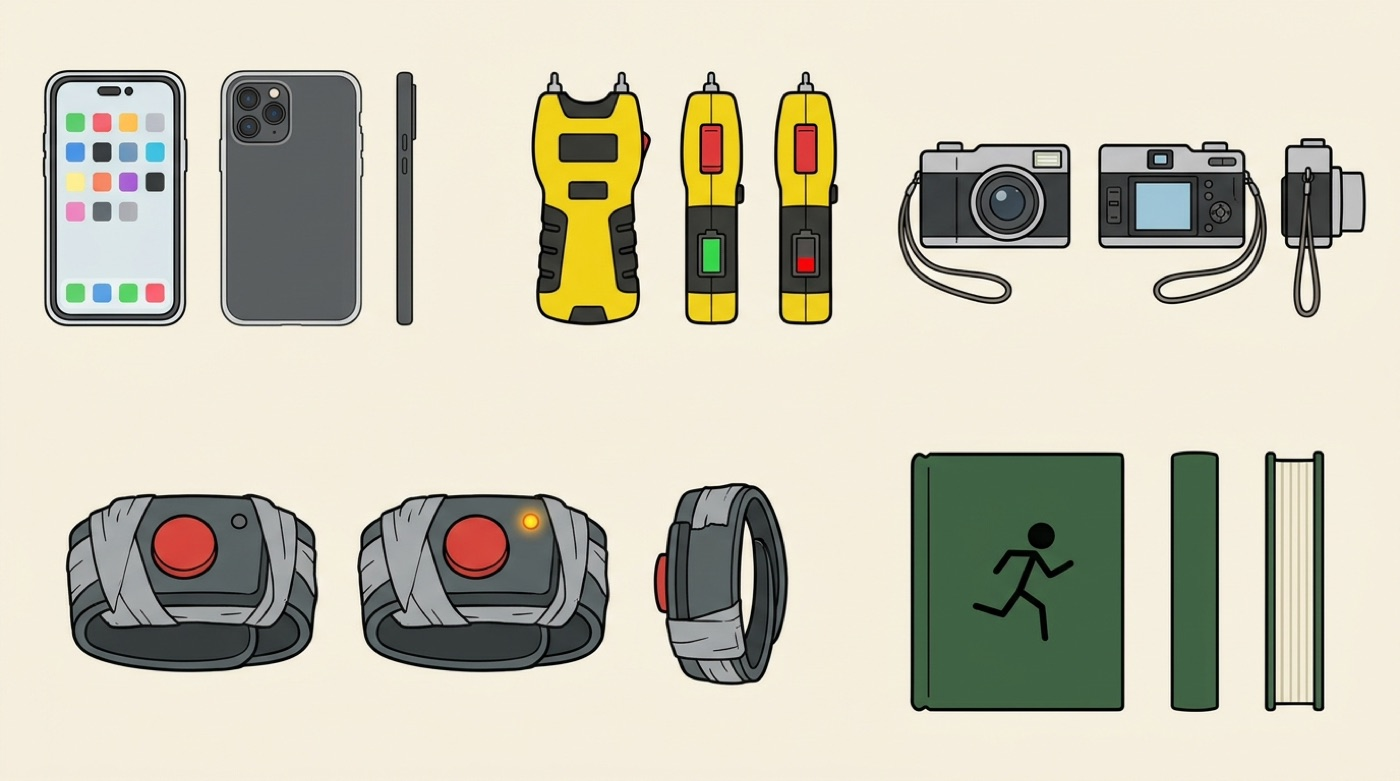
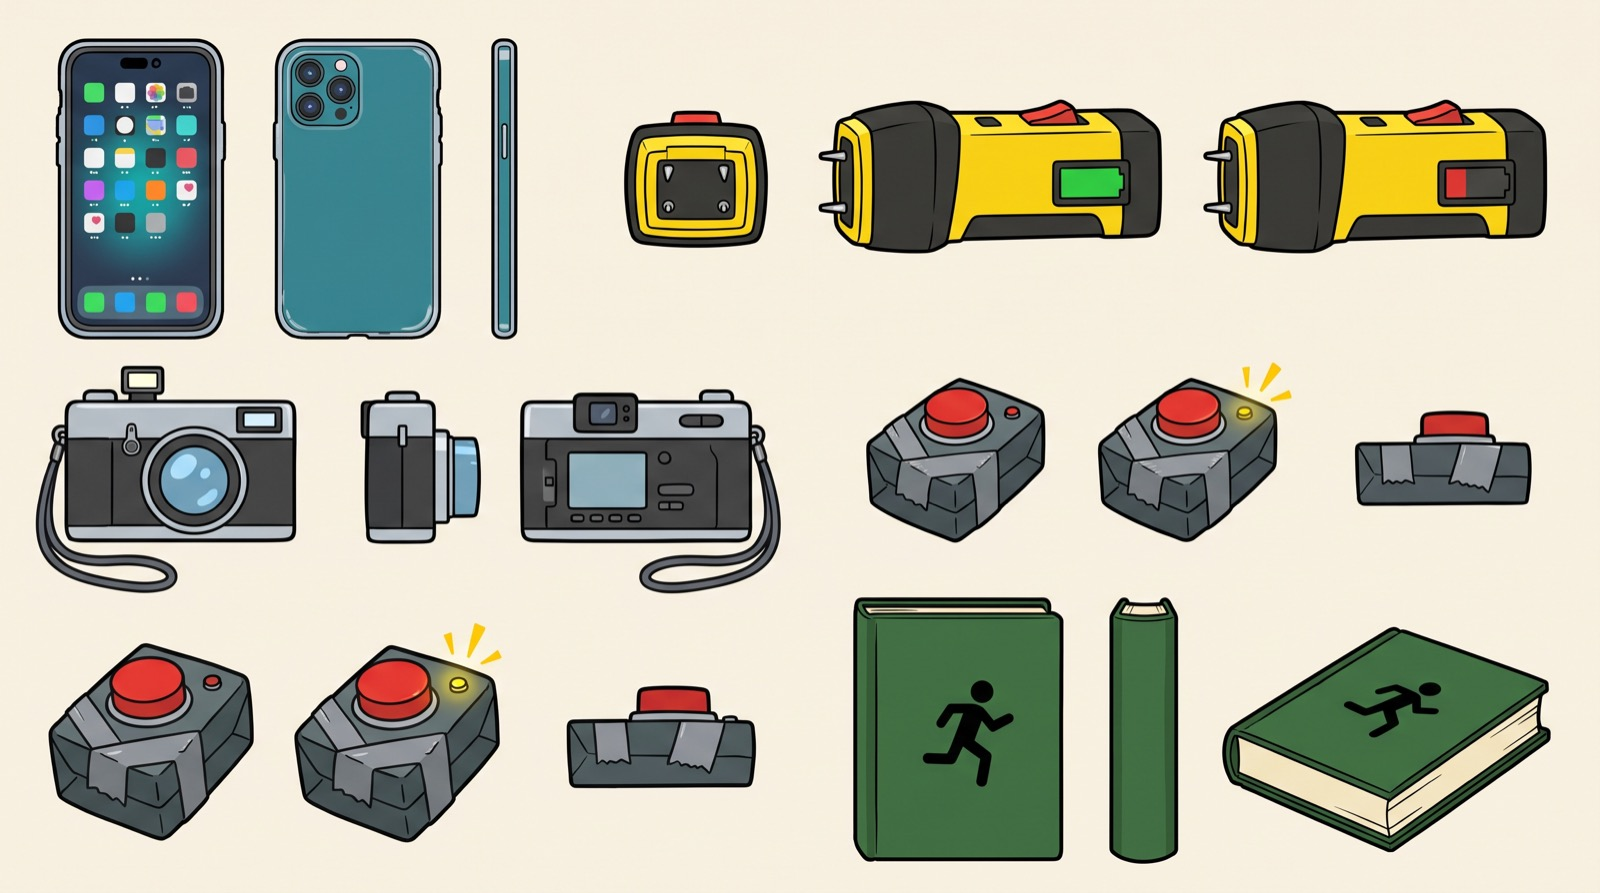
stickman: 設定頁換上實驗室與道具設定圖第 2 版

diff --git a/stickman/characters/index.html b/stickman/characters/index.html
@@ -112,7 +112,7 @@ table.t{border-collapse:collapse;font-size:13.5px;margin:8px 0}table.t td,table.
 
 <h2 id="props">道具</h2>
 <div class="grid">
-<figure><img loading="lazy" src="img/REF_PROPS.jpg" alt="道具設定圖"><figcaption><b>舊版</b>道具設定圖（REF_PROPS），每樣都畫了正面和側面，畫面裡出現這些道具的格子都會附這張圖。<b>左下的手環要改成回家按鈕，這張要照下面的新 prompt 重畫</b>。</figcaption></figure>
+<figure><img loading="lazy" src="img/REF_PROPS.jpg" alt="道具設定圖第 2 版"><figcaption><b>道具設定圖第 2 版（REF_PROPS，2026-11-12）</b>：手機、電擊槍（綠＝有電、紅＝沒電）、相機、<b>回家按鈕</b>（燈不亮／燈亮／側面）、生存指南，每樣都有正面和側面。畫面裡出現這些道具的格子都附這張圖。回家按鈕被畫了兩排，內容一樣，不影響使用。</figcaption></figure>
 <div class="card"><dl>
 <dt>手機</dt><dd>HERO 的。房間只有一個插座，他拿來充手機，所以手機永遠是滿電的，可惜在白堊紀沒有訊號。</dd>
 <dt>電擊槍</dt><dd>博士叫他帶的。因為插座拿去充手機，電量是零，最後被他拿去丟盜龍。側面有電量燈（綠＝有電、紅＝沒電）。</dd>
@@ -122,7 +122,8 @@ table.t{border-collapse:collapse;font-size:13.5px;margin:8px 0}table.t td,table.
 </dl></div>
 </div>
 
-<details><summary>道具設定圖新版 prompt（v6，回家按鈕）</summary><p class="note">在 Flow 重畫時附 REF_HERO 當畫風參考，<b>不要附舊的 REF_PROPS</b>（舊的是手環，會把手環帶回來）。第 4 項以外的四樣沒改。</p><div class="prompt">Create a landscape 16:9 prop reference sheet for a 2D cartoon about time travel to the age of dinosaurs. The attached HERO sheet is from the same story; use it ONLY to match the drawing style. Flat 2D cartoon illustration, warm off-white background #F6F1E7, crisp thick black outlines #202020, simple shapes, flat colors only. No people, no hands, no scenery. No text, no letters, no numbers, no logos anywhere.
+<details><summary>舊版道具設定圖（手環版）</summary><figure><img loading="lazy" src="img/REF_PROPS_v1_wristband.jpg" alt="舊版道具設定圖"><figcaption>第 1 版，回家裝置畫成纏膠帶的手環，11-12 改成按鈕後不再使用。</figcaption></figure></details>
+<details><summary>道具設定圖第 2 版的 prompt（v6，回家按鈕）</summary><p class="note">在 Flow 重畫時附 REF_HERO 當畫風參考，<b>不要附舊的 REF_PROPS</b>（舊的是手環，會把手環帶回來）。第 4 項以外的四樣沒改。</p><div class="prompt">Create a landscape 16:9 prop reference sheet for a 2D cartoon about time travel to the age of dinosaurs. The attached HERO sheet is from the same story; use it ONLY to match the drawing style. Flat 2D cartoon illustration, warm off-white background #F6F1E7, crisp thick black outlines #202020, simple shapes, flat colors only. No people, no hands, no scenery. No text, no letters, no numbers, no logos anywhere.
 
 Five props, each shown alone and clearly separated, every one drawn from the front AND from the side so its shape is fixed:
 
@@ -157,14 +158,15 @@ Every prop must keep exactly this shape and these colors whenever it appears.</d
 <div class="grid" style="margin-top:16px">
 <figure><img loading="lazy" src="https://history.lbl.gov/wp-content/uploads/sites/11/2014/10/XBD9703-01129-large.jpg" alt="寫滿字的舊黑板">
 <figcaption>Berkeley Lab 歷史網站上的黑板照片：「E.O.L. has NOBEL Prize」「CHAMPAGNE PARTY NOV. 17」，後面是直條木板牆。原網頁沒有說明，<b>「是在這間小屋裡拍的」是推斷，沒有證實</b>。可以當博士室內黑板的參考。<br><span class="src">圖片直接連到 Berkeley Lab 網站，只當參考。</span></figcaption></figure>
-<figure><img loading="lazy" src="img/REF_LAB.jpg" alt="舊版實驗室設定圖">
+<figure><img loading="lazy" src="img/REF_LAB_v1_basement.jpg" alt="舊版實驗室設定圖">
 <figcaption><b>舊版</b>實驗室設定圖（REF_LAB），畫的是洗衣店地下室：小窗外是洗衣機、鐵門上掛鐵鍊。室內的時光機、黑板、工作台可以留著參考，<b>外觀和地下室的部分要照新設定重畫</b>。</figcaption></figure>
 </div>
 
 <h3 id="lab-v2">室內配置新版（2026-11-12）<span class="tag new">新</span></h3>
-<p class="sub">研究小屋<b>一樓</b>，沒有樓梯；室內 8 × 6 公尺，跟第 3 幕小屋外觀一樣大。氣氛參考回到未來布朗博士的車庫，只借「滿牆時鐘、會出錯的自製機器、住在實驗室的生活痕跡」這類通用元素。上面那張舊 REF_LAB（地下室）要照這份重畫。</p>
-<div class="grid"><figure><img loading="lazy" src="img/lab_map_v2.png" alt="實驗室新地圖"><figcaption>新地圖（maps/lab.json）：一格 0.5 公尺，北在上。紅框＝地上的東西，藍框＝掛在牆上或高處（時鐘、窗戶）。</figcaption></figure><div class="card"><h3>地圖位置 → 設定圖主視角的位置</h3><table class="t"><tr><th>地圖位置</th><th>東西</th><th>主視角裡的位置</th></tr><tr><td>B1–H1（北牆西半）</td><td>滿牆的時鐘</td><td>後牆左半</td></tr><tr><td>B2（西北角）</td><td>自動咖啡機小桌</td><td>後牆左角</td></tr><tr><td>I2（北牆中間偏東）</td><td>時光機圓環</td><td>後牆中間偏右</td></tr><tr><td>M3</td><td>紅色拉桿</td><td>圓環右邊</td></tr><tr><td>N2（東北角）</td><td>控制台</td><td>後牆右角</td></tr><tr><td>A4–A8（西牆）</td><td>黑板</td><td>左牆（斜看）</td></tr><tr><td>A10–A11（西牆）</td><td>電影海報</td><td>左牆，比黑板近</td></tr><tr><td>Q5–Q9（東牆）</td><td>電子工作桌</td><td>右牆（斜看）</td></tr><tr><td>N12（東南角）</td><td>行軍床、東窗</td><td>右前角</td></tr><tr><td>F14（南牆偏西）</td><td>前門</td><td>在我們左後方，畫面外</td></tr><tr><td>I13 附近（南牆中間）</td><td>觀察點</td><td>主視角的相機</td></tr></table></div></div>
-<details><summary>實驗室設定圖新版 prompt（REF_LAB v2）</summary><p class="note">在 Flow 開新的一張，16:9。<b>不要附舊的 REF_LAB</b>（舊的是地下室）；可以附 REF_PROF 當畫風參考。</p><h3>中文對照</h3><div class="zhp">16:9，生成 1 張。扁平 2D 卡通的場景設定圖：粗黑外框、平塗顏色、簡單陰影，畫風跟附圖一樣。**畫面裡沒有任何角色或人。任何地方都不要有文字、字母或數字**：黑板、海報、時鐘、螢幕上都不要。版面像美術設定頁，奶油色底：上半部一大格，下半部並排三小格，每格有細黑框。
+<p class="sub">研究小屋<b>一樓</b>，沒有樓梯；室內 8 × 6 公尺，跟第 3 幕小屋外觀一樣大。氣氛參考回到未來布朗博士的車庫，只借「滿牆時鐘、會出錯的自製機器、住在實驗室的生活痕跡」這類通用元素。舊 REF_LAB（地下室）已經照這份重畫成第 2 版。</p>
+<div class="grid"><figure><img loading="lazy" src="img/REF_LAB.jpg" alt="實驗室設定圖第 2 版"><figcaption><b>實驗室設定圖第 2 版（REF_LAB，2026-11-12）</b>：上面是從南牆中間往北看的主視角，下面三格是時光機與控制台、時鐘牆與咖啡機與黑板、工作桌與行軍床。以後實驗室的格子都附這張。<br>跟地圖不一樣的地方：電影海報畫在黑板<b>北邊</b>（靠時鐘那一角），地圖上在黑板南邊，待決定改哪一邊。</figcaption></figure>
+<figure><img loading="lazy" src="img/lab_map_v2.png" alt="實驗室新地圖"><figcaption>新地圖（maps/lab.json）：一格 0.5 公尺，北在上。紅框＝地上的東西，藍框＝掛在牆上或高處（時鐘、窗戶）。</figcaption></figure><div class="card"><h3>地圖位置 → 設定圖主視角的位置</h3><table class="t"><tr><th>地圖位置</th><th>東西</th><th>主視角裡的位置</th></tr><tr><td>B1–H1（北牆西半）</td><td>滿牆的時鐘</td><td>後牆左半</td></tr><tr><td>B2（西北角）</td><td>自動咖啡機小桌</td><td>後牆左角</td></tr><tr><td>I2（北牆中間偏東）</td><td>時光機圓環</td><td>後牆中間偏右</td></tr><tr><td>M3</td><td>紅色拉桿</td><td>圓環右邊</td></tr><tr><td>N2（東北角）</td><td>控制台</td><td>後牆右角</td></tr><tr><td>A4–A8（西牆）</td><td>黑板</td><td>左牆（斜看）</td></tr><tr><td>A10–A11（西牆）</td><td>電影海報</td><td>左牆，比黑板近</td></tr><tr><td>Q5–Q9（東牆）</td><td>電子工作桌</td><td>右牆（斜看）</td></tr><tr><td>N12（東南角）</td><td>行軍床、東窗</td><td>右前角</td></tr><tr><td>F14（南牆偏西）</td><td>前門</td><td>在我們左後方，畫面外</td></tr><tr><td>I13 附近（南牆中間）</td><td>觀察點</td><td>主視角的相機</td></tr></table></div></div>
+<details><summary>實驗室設定圖第 2 版的 prompt（REF_LAB v2）</summary><p class="note">在 Flow 開新的一張，16:9。<b>不要附舊的 REF_LAB</b>（舊的是地下室）；可以附 REF_PROF 當畫風參考。</p><h3>中文對照</h3><div class="zhp">16:9，生成 1 張。扁平 2D 卡通的場景設定圖：粗黑外框、平塗顏色、簡單陰影，畫風跟附圖一樣。**畫面裡沒有任何角色或人。任何地方都不要有文字、字母或數字**：黑板、海報、時鐘、螢幕上都不要。版面像美術設定頁，奶油色底：上半部一大格，下半部並排三小格，每格有細黑框。
 
 場景：大學校園裡老舊兩層木造小屋的一樓，改裝成雜亂的自製科技實驗室。只有一個房間，約 8 公尺寬、6 公尺深，**完全沒有樓梯**。直條木板牆（暖褐色）、舊木地板、低矮的外露木樑天花板（約 2.6 公尺高），電線沿著木樑拉，吊著幾顆燈泡。早上，暖色的陽光從窗戶照進來。
 
